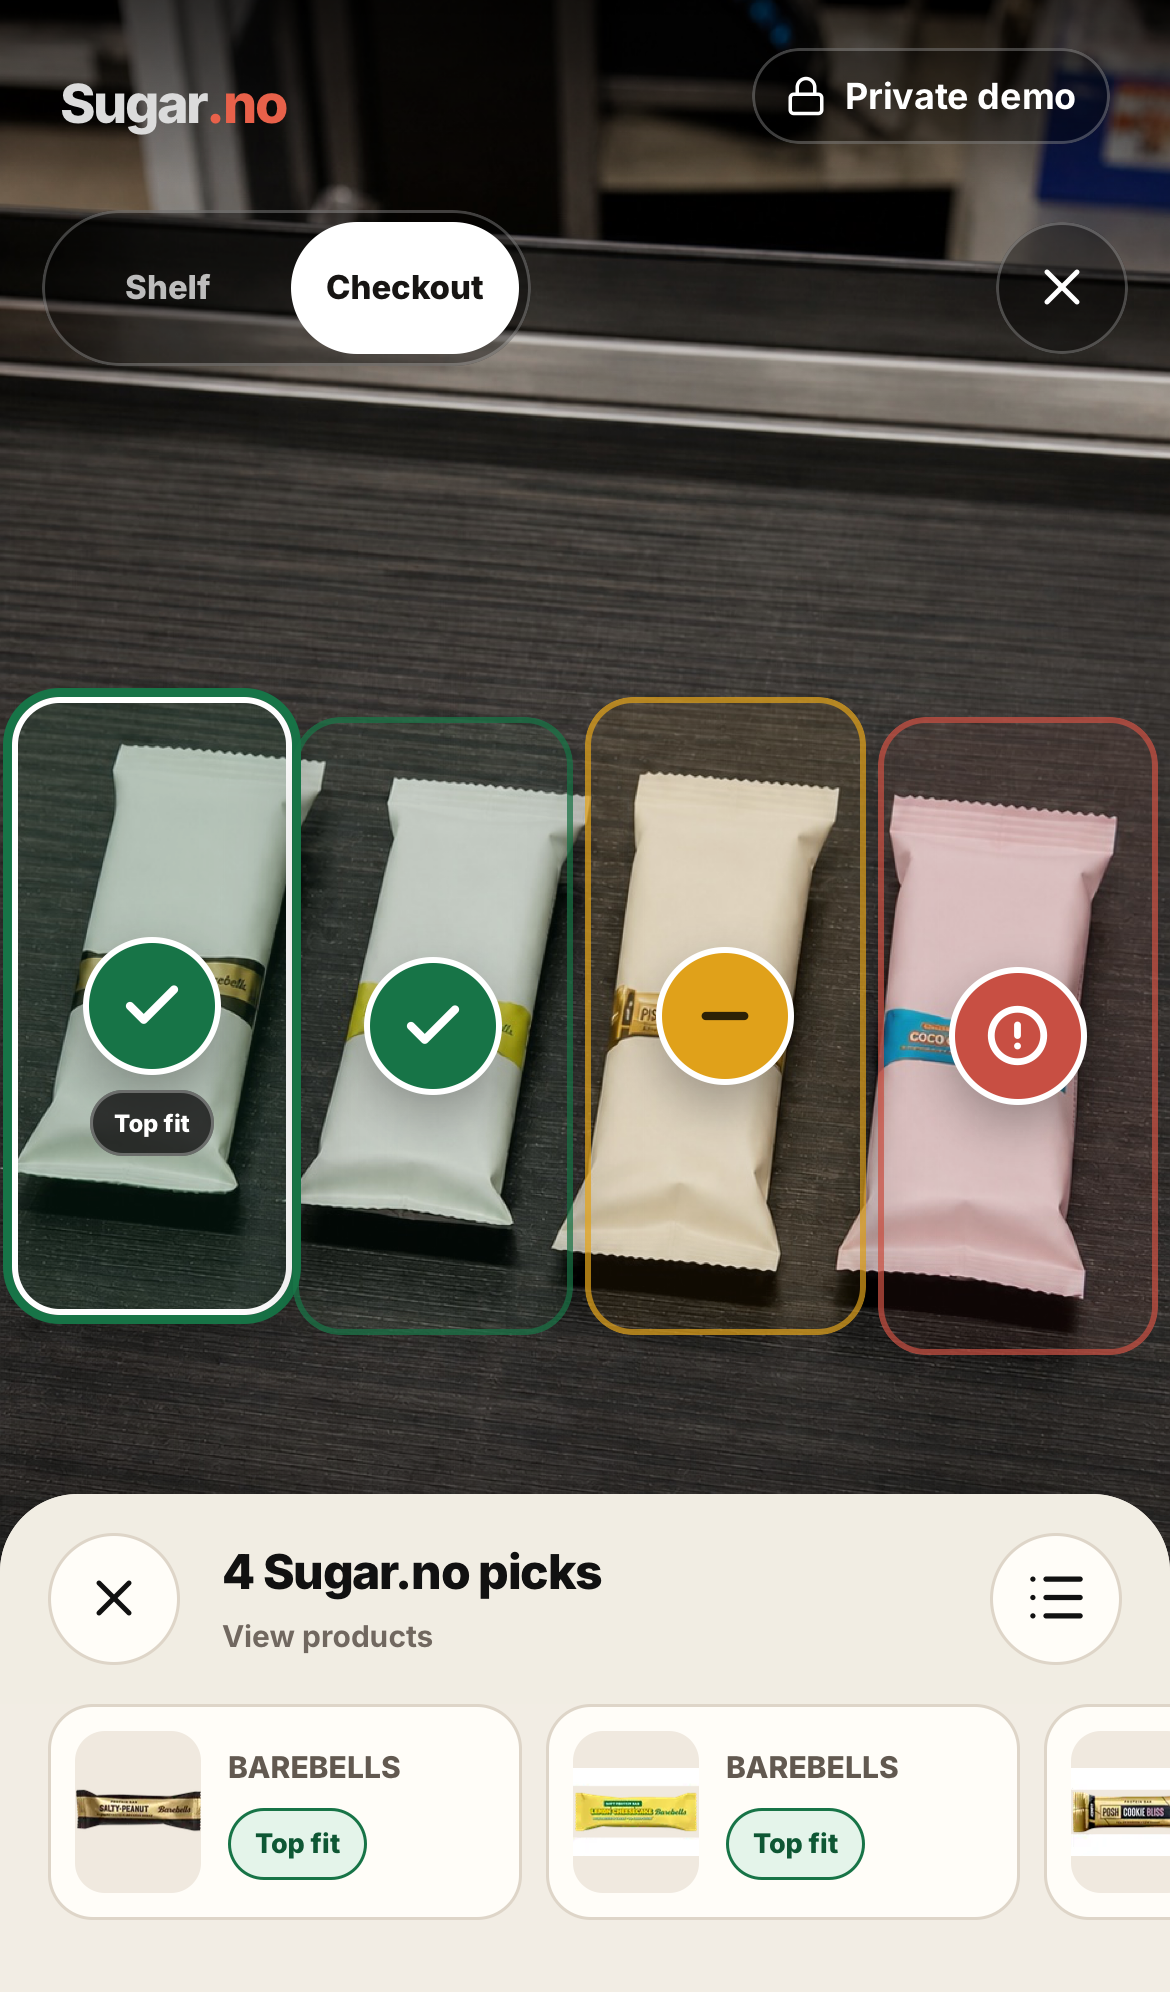
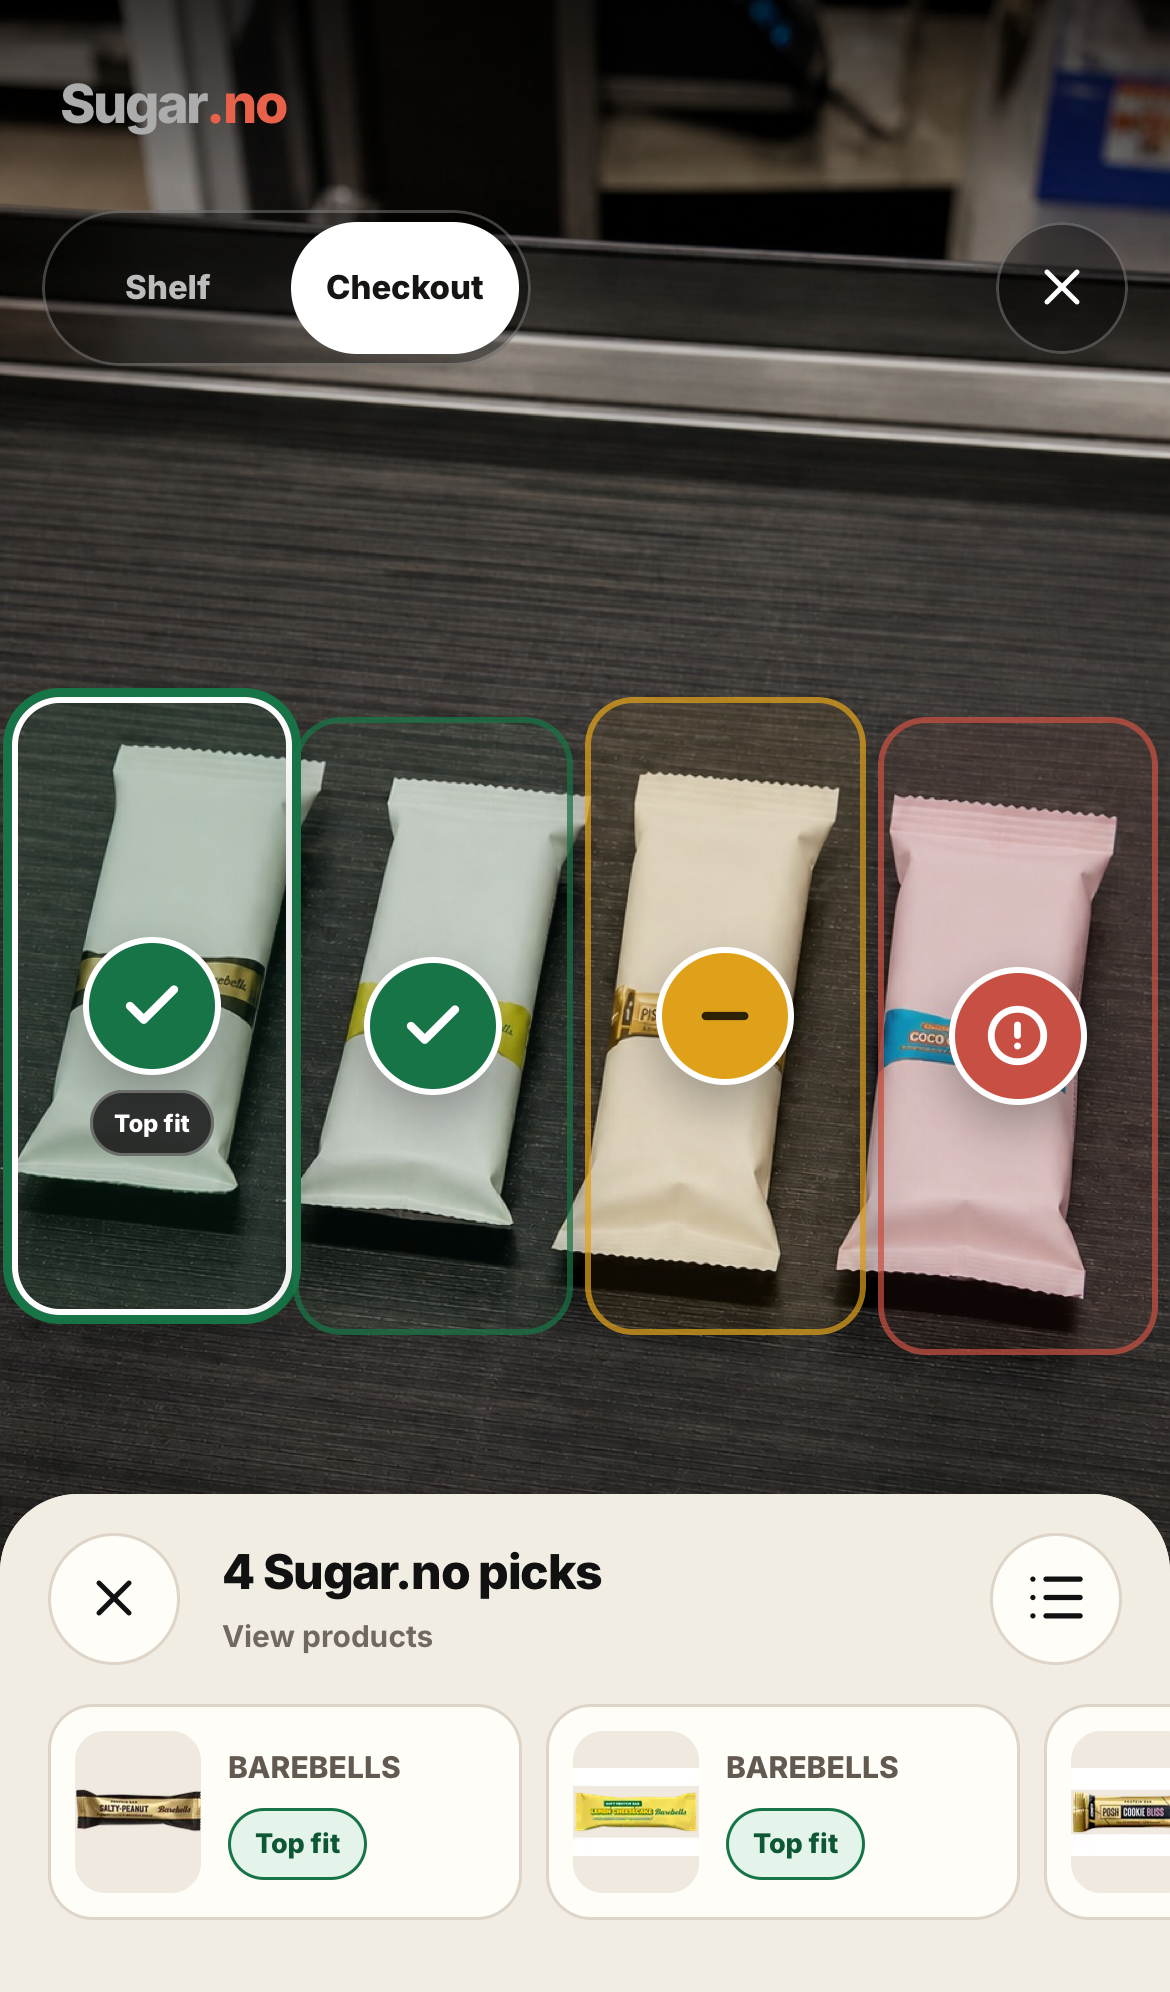
Remove private demo header badge

Changed region(s): [[0.6769, 0.0, 0.9231, 0.0934], [0.0308, 0.0311, 0.1846, 0.0622]]

diff --git a/src/components/scanner-app.module.css b/src/components/scanner-app.module.css
@@ -15,7 +15,7 @@
   display: flex;
   height: calc(62px + env(safe-area-inset-top));
   align-items: flex-end;
-  justify-content: space-between;
+  justify-content: flex-start;
   padding: 0 20px 14px;
   background: linear-gradient(to bottom, rgb(242 237 228 / 96%), rgb(242 237 228 / 82%));
   backdrop-filter: blur(16px);
@@ -29,13 +29,6 @@
   pointer-events: none;
 }
 
-.scannerHeader .privateBadge {
-  border-color: rgb(255 255 255 / 24%);
-  background: rgb(0 0 0 / 34%);
-  color: #ffffff;
-  backdrop-filter: blur(12px);
-}
-
 .wordmark {
   font-size: 18px;
   font-weight: 800;
@@ -44,20 +37,6 @@
 
 .wordmark span {
   color: var(--coral);
-}
-
-.privateBadge {
-  display: inline-flex;
-  min-height: 32px;
-  align-items: center;
-  gap: 6px;
-  padding: 6px 10px;
-  border: 1px solid var(--border);
-  border-radius: 999px;
-  background: rgb(255 253 248 / 74%);
-  color: #544b44;
-  font-size: 12px;
-  font-weight: 700;
 }
 
 .intro {
@@ -1613,7 +1592,6 @@
     background: rgb(23 21 19 / 88%);
   }
 
-  .privateBadge,
   .sheetIconButton,
   .sheetPreview button,
   .sheetPreviewThumb,

diff --git a/tests/e2e/scanner.spec.ts b/tests/e2e/scanner.spec.ts
@@ -24,6 +24,7 @@ test("private gate rejects the wrong code and accepts the configured code", asyn
   await page.getByLabel("Investor access code").fill("e2e-access");
   await page.getByRole("button", { name: "Open demo" }).click();
   await expect(page.getByRole("heading", { name: /One camera/ })).toBeVisible();
+  await expect(page.getByText("Private demo", { exact: true })).toHaveCount(0);
 });
 
 test("sample shelf photo highlights products and shows a three-signal Sugar.no badge", async ({ page }) => {

diff --git a/src/components/scanner-app.tsx b/src/components/scanner-app.tsx
@@ -636,9 +636,6 @@ export function ScannerApp() {
         <div className={styles.wordmark} aria-label="Sugar dot no">
           Sugar<span>.no</span>
         </div>
-        <div className={styles.privateBadge}>
-          <Lock aria-hidden="true" size={14} /> Private demo
-        </div>
       </header>
 
       {!activeExperience ? (

diff --git a/Bugs.md b/Bugs.md
@@ -13,6 +13,7 @@ This file is the running record of scanner defects found and resolved.
 
 ## Resolved
 
+- **2026-08-21: the persistent `Private demo` header badge competed with the camera.** The scanner header now shows only the Sugar.no wordmark; the access-code gate and privacy protections are unchanged.
 - **2026-08-21: a single recognized product called itself `Best fit in this scan`.** The best-in-scan chip now requires at least two rated products, so it only appears when a real comparison exists.
 - **2026-08-21: only 10 curated products displayed a Sugar.no result despite 19,076 Barbora pages being indexed.** The scanner now hydrates an exact `barbora:<slug>` SKU after recognition, fetches its live retailer page and creates an on-demand reference-based quick view when energy, protein and total sugar are listed. Missing fiber is a neutral `Not listed` third criterion and the UI says `2 of 3 source-backed signals`; adult, non-food and nutrition-poor pages remain unrated rather than receiving invented data.
 - **2026-08-21: product details displaced the camera and made the shelf feel secondary.** The scanner now owns the full phone viewport. Recognition first opens a compact thumbnail sheet over the bottom edge; the user deliberately expands it into a full comparison page and can collapse it back to the held camera frame. The expanded state traps interaction away from background camera controls and supports Escape/reduced motion.

diff --git a/README.md b/README.md
@@ -11,6 +11,7 @@ Private Latvia proof of concept for camera-based identification and comparison o
 The app is a working mobile-first web/PWA concept with:
 
 - a private access-code gate;
+- a brand-only scanner header without a persistent private-demo label; access remains protected by the gate;
 - automatic live-camera frame sampling after the user grants permission;
 - one recognition API for camera, saved images, a deterministic four-item shelf photo and a four-item checkout photo;
 - a reproducible index of 19,076 Barbora Latvia product pages for package naming and retailer lookup;
